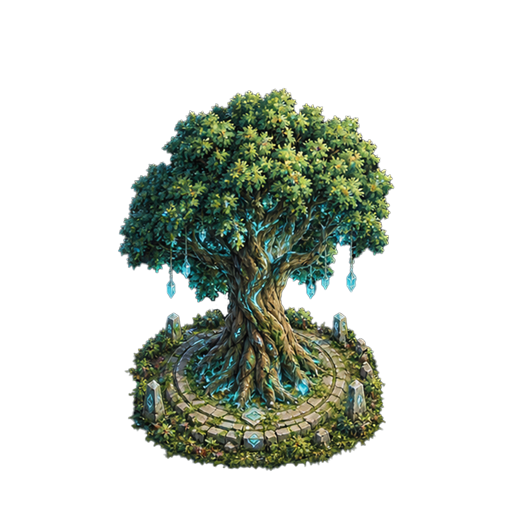
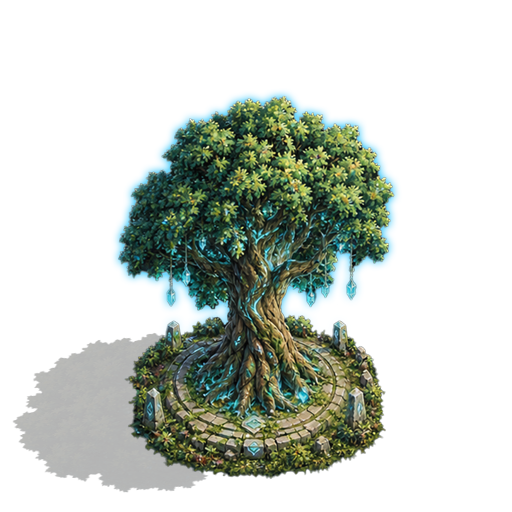
fix(ui): battle backdrop fill, equal upgrade tabs, touch scrolling, in-battle settings

diff --git a/docs/DECISIONS.md b/docs/DECISIONS.md
@@ -173,3 +173,7 @@ row that supersedes the old one â€” never rewrite or delete history.
 | 2026-10-20 | `project.godot` sets `application/config/quit_on_go_back=false`, and `Battle._handle_back()` ignores a second back request inside 250 ms. | The first device run proved Back finished the activity before any handler ran; with the setting alone the press arrived twice (OS notification and `ui_cancel`) and the pause menu opened then closed in the same frame. Device-verified afterwards: open, close, quit confirmation, results. |
 | 2026-10-20 | The tutorial label now carries `custom_minimum_size = Vector2(632, 0)` so its autowrapped height is measured at the card width, not at zero. | On the 1220x2712 phone the step-1 card painted ~1060 design px tall and covered the pads it pointed at; steps 2-3 were fine because their text was shorter. Device-verified after the change. |
 | 2026-10-20 | `RevivePrompt` no longer closes itself on "give up"; `Battle` owns the prompt lifetime and tracks `_revive_offered`, so both handlers no longer read `hud.is_revive_visible()`. | Stage-8 device test: pressing "give up" hid the prompt first, `Battle` saw `is_revive_visible() == false`, returned early and left `get_tree().paused = true` with no UI (the reported freeze). A 16-check `TestRevive` suite now covers give-up and revive. |
+| 2026-10-23 | The battle backdrop moved from `Arena._draw` into a `CanvasLayer` at layer -1 with a full-rect `TextureRect` (`STRETCH_KEEP_ASPECT_COVERED`). | The battle camera sits at (540, 960), so a world-space rect starting at y = 0 left the top ~240 px of a tall phone uncovered. A screen-space layer always fills the viewport and centres the art regardless of camera and aspect. |
+| 2026-10-23 | `ScrollFix` marks every `Control` inside a `ScrollContainer` as `MOUSE_FILTER_PASS` (except sliders and text fields), re-applied when children are added. | Rows and cards default to `STOP`, so a touch drag that started on them was swallowed and only the empty gaps scrolled. With PASS the drag reaches the container while buttons still receive taps; verified on the phone by scrolling the Upgrades list over its rows. |
+| 2026-10-23 | The in-battle Settings button opens the menu's `SettingsScreen` as an overlay on the paused battle, with its reset/privacy/replay cards hidden. | The button was a "coming soon" toast. The screen is self-contained apart from three menu-only actions; hiding those avoids a `main_menu` dependency while giving the player the full settings set mid-run. |
+| 2026-10-23 | `UpgradePanel` uses one fixed scroll height (`TAB_SCROLL_HEIGHT = 620`) for TREE, ARCHERS and TOWERS instead of fitting the sheet to each tab's row count. | The panel resized when switching tabs, which looked like a layout jump. A fixed height keeps the sheet steady; the unused space on the two-row TREE tab is the trade-off. |
